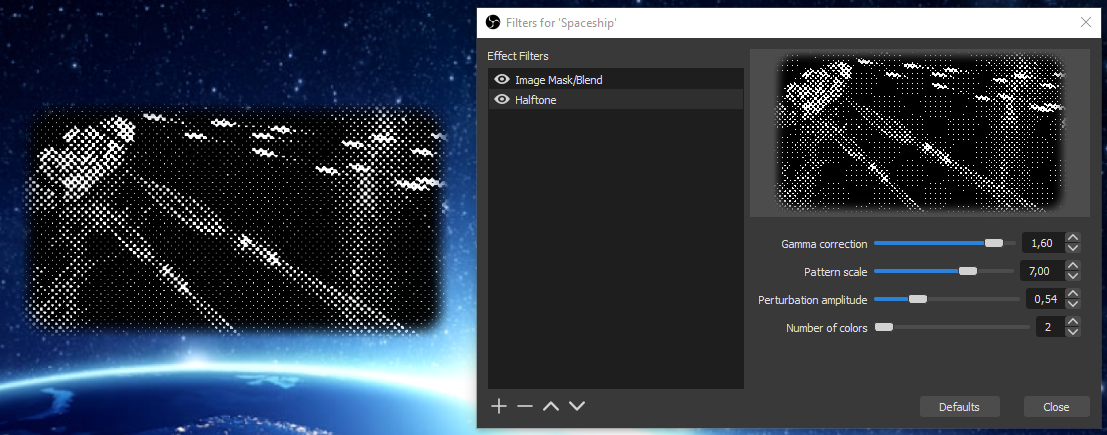
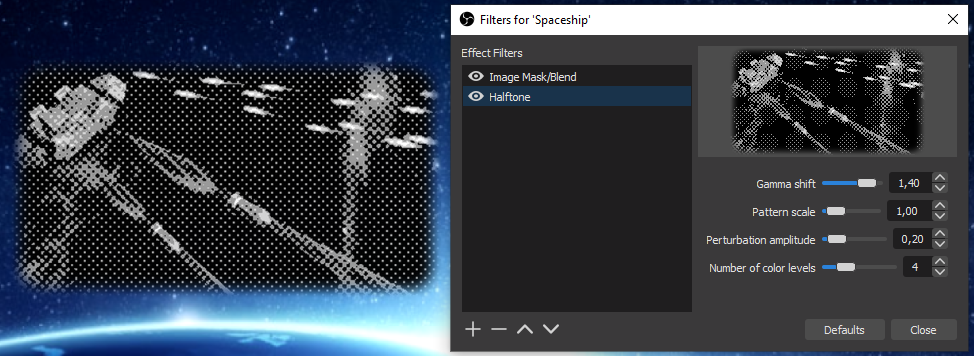
Before changing GAMMA

diff --git a/Scripting-Tutorial-Halftone-Filter.md b/Scripting-Tutorial-Halftone-Filter.md
@@ -269,13 +269,13 @@ Add all the code blocks in the HLSL file, then restart OBS, normally the source 
 
 Well, this is not really a halftone picture here, but it clearly shows the expected shades of gray according to the luminance. The example picture is very dark. And actually our simple computation of the luminance is wrong as it does not take into account the "gamma compression" of RGB components.
 
-### Gamma compression and correction
+### Gamma correction
 
 Colors are typically encoded with 8 bits for each RGB component, i.e. in range 0 to 255, corresponding to the range 0.0 to 1.0 in HLSL. But because the human eye has a [non-linear perception of the light intensity](http://blog.johnnovak.net/2016/09/21/what-every-coder-should-know-about-gamma/) emitted by the monitor, the values encoded in the RGB components do not grow linearly with the intensity, they follow a power law instead. The power law for encoding and decoding uses typically an exponent _2.2_ or _1/2.2_.
 
 This non-linearity of the RGB components is of course an issue in a video filter if a computation is performed assuming they are encoded in a linear way.
 
-The two operations of [gamma correction](https://en.wikipedia.org/wiki/Gamma_correction) are called first _gamma compression_, i.e. encoding of an RGB component proportional to the light intensity into a value to be displayed to a human eye, with an exponent lower than 1, and _gamma expansion_ with an exponent greater than 1.
+The two operations of [gamma correction](https://en.wikipedia.org/wiki/gamma_shift) are called first _gamma compression_, i.e. encoding of an RGB component proportional to the light intensity into a value to be displayed to a human eye, with an exponent lower than 1, and _gamma expansion_ with an exponent greater than 1.
 
 Let's call _gamma_ the exponent used for color decoding (greater than 1) with a value of _2.2_. We can use simplified formulas for gamma encoding:
 
@@ -287,30 +287,30 @@ _linear_value = encoded_value <sup>gamma</sup>_
 
 Please note that such formulas keep values nicely between 0.0 and 1.0.
 
-Now to come back to the halftone filter, we noted that the example picture is a bit too dark, and we know that changing the "gamma" of a picture change its overall luminosity. So we can introduce a gamma computation for 2 purposes: use of linear values for more exact calculations and a somehow abusively named "gamma correction" of the source picture.
+Now to come back to the halftone filter, we noted that the example picture is a bit too dark, and we know that changing the "gamma" of a picture change its overall luminosity. So we can introduce a gamma computation for 2 purposes: use of linear values for more exact calculations and a "gamma shift" of the source picture (not called "gamma correction" to avoid misunderstandings).
 
-Namely, a gamma decoding including a subtractive "correction" would look like this, performed _before_ any computation on the RGB color components (with a minus such that positive values increase the luminosity):
+Namely, a gamma decoding including a subtractive shift would look like this, performed _before_ any computation on the RGB color components (with a minus such that positive values increase the luminosity):
 
-_linear_value = encoded_value <sup>gamma-correction</sup>_
+_linear_value = encoded_value <sup>gamma-shift</sup>_
 
-Let's do it in the code, starting with the definition of a global constant `GAMMA` and a uniform variable `gamma_correction` with a default value:
+Let's do it in the code, starting with the definition of a global constant `GAMMA` and a uniform variable `gamma_shift` with a default value:
 
 ``` HLSL
 // Constants
 #define GAMMA 2.2
 
 // General properties
-uniform float gamma_correction = 1.2;
+uniform float gamma_shift = 1.2;
 ```
 
-Experiment and adapt the default value of `gamma_correction` to your source. It will be defined as an OBS property later on.
+Experiment and adapt the default value of `gamma_shift` to your source. It will be defined as an OBS property later on.
 
 Then we introduce the gamma encoding and decoding functions, and re-write the pixel shader to use it:
 
 ``` HLSL
-float3 decode_gamma(float3 color)
+float3 decode_gamma(float3 color, float shift)
 {
-    return pow(color, GAMMA - gamma_correction);
+    return pow(color, GAMMA - shift);
 }
 
 float3 encode_gamma(float3 color)
@@ -322,7 +322,7 @@ float3 encode_gamma(float3 color)
 float4 pixel_shader_halftone(pixel_data pixel) : TARGET
 {
     float4 source_sample = image.Sample(linear_clamp, pixel.uv);
-    float3 linear_color = decode_gamma(source_sample.rgb);
+    float3 linear_color = decode_gamma(source_sample.rgb, gamma_shift);
 
     float luminance = dot(linear_color, float3(0.299, 0.587, 0.114));
     float3 result = luminance.xxx;
@@ -331,7 +331,7 @@ float4 pixel_shader_halftone(pixel_data pixel) : TARGET
 }
 ```
 
-Add all the code blocks in the HLSL file, then _restart OBS_ (only reloading the script would not help, because the effect remains cached and would not be re-compiled). Depending on the value you select for `gamma_correction`, the filtered picture should have a different overall luminosity:
+Add all the code blocks in the HLSL file, then _restart OBS_ (only reloading the script would not help, because the effect remains cached and would not be re-compiled). Depending on the value you select for `gamma_shift`, the filtered picture should have a different overall luminosity:
 
 ![filter halftone gamma corrected luminance](images/scripting/filter-halftone-gamma-corrected-luminance.png)
 
@@ -370,29 +370,29 @@ Add the code, restart OBS, for now no difference is expected, the interesting th
 
 ### Luminance perturbation
 
-Now that the size of the picture is available, we can start to use pixel coordinates for formulas. Namely, we want to add a little perturbation on the computed luminance according to the formula _sin(x)*sin(y)_. The form of this classic formula looks like:
+Now that the size of the picture is available, we can start to use pixel coordinates for formulas. Namely, we want to add a little perturbation on the computed luminance according to the formula _cos(x)*cos(y)_. The form of this classic formula looks like:
 
 ![filter halftone ](images/scripting/filter-halftone-perturbation-curve.png)
 
 The formula will be such that:
 
 - It adds to the luminance a small negative or positive value with a given amplitude
-- The scale of the form can be changed, with a scale of 1.0 corresponding to an oscillation long of 1 pixel
+- The scale of the form can be changed, with a scale of 1.0 corresponding to a 8 pixels long oscillation
 
-If we name the parameters of the formula simply _scale_ and _amplitude_, assuming _x_ and _y_ are in pixels, the angle for the oscillations on _x_ is given by _2\*&pi;\*x/scale_ (the bigger the _scale_, the longer the oscillations). The sine function returns values between -1.0 and 1.0, so the _amplitude_ can be just multiplied to the product of sine.
+If we name the parameters of the formula simply _scale_ and _amplitude_, assuming _x_ and _y_ are in pixels, the angle for the oscillations on _x_ is given by _2\*&pi;\*x/scale/8_ (the bigger the _scale_, the longer the oscillations). The cosine function returns values between -1.0 and 1.0, so the _amplitude_ can be just multiplied to the product of cosine.
 
-The final parameterized formula will be:
+The final parameterized formula will be (with simplification):
 
-_perturbation = amplitude\*sin(2\*&pi;\*x/scale)\*sin(2\*&pi;\*y/scale)_
+_perturbation = amplitude\*cos(&pi;\*x/scale/4)\*cos(&pi;\*y/scale/4)_
 
-For the coordinates _x_ and _y_ in pixels, as we have the _width_ and _height_ plus the UV coordinates, the formula are simply _x = U * width_ and _y = V * height_ if we call the UV coordinates _U_ and _V_ here.
+For the coordinates _x_ and _y_ in pixels, as we have the _width_ and _height_ plus the UV coordinates, the formula are simply _x = U * width_ and _y = V * height_ if we call the UV coordinates _U_ and _V_ here. In the code, we will use a more compact form with a component-by-component multiplication of `pixel.uv` with `float2(width,height)`.
 
-In the code, we will use a more compact form with a component-by-component multiplication of `pixel.uv` with `float2(width,height)`. Re-write the center part of the pixel shader (between the decoding and encoding lines) with:
+Re-write the center part of the pixel shader (between the decoding and encoding lines) with:
 
 ``` HLSL
     float luminance = dot(linear_color, float3(0.299, 0.587, 0.114));
     float2 position = pixel.uv * float2(width, height);
-    float perturbation = amplitude * sin(2.0*PI*position.x/scale) * sin(2.0*PI*position.y/scale);
+    float perturbation = amplitude * cos(PI*position.x/scale/4.0) * cos(PI*position.y/scale/4.0);
     float3 result = (luminance + perturbation).xxx;
 ```
 
@@ -404,7 +404,7 @@ At the top of the file, do not forget to define a new constant for `PI` and the 
 
 // General properties
 uniform float amplitude = 0.2;
-uniform float scale = 8.0;
+uniform float scale = 1.0;
 ```
 
 Add the code, restart OBS, now the effect should look like this:
@@ -419,23 +419,23 @@ Until now we use a continuous luminance. The next step is to mimic a reduced num
 
 For a given value of luminance from 0.0 to 1.0, we can multiply the value by a constant factor and then round the product to obtain a certain number of integer values. For example, with a factor of 3, we obtain the values 0, 1, 2 and 3. The we re-divide by 3 to obtain 4 luminance values with values 0.0, 0.33, 0.66 and 1.0. It can be generalized to _n_ colors by multiplying/dividing by _n-1_.
 
-The computation is really simple to implement. We start by adding a global uniform number of colors:
+The computation is really simple to implement. We start by adding a global uniform number of color levels:
 
 ``` HLSL
-uniform int number_of_colors = 4.0;
+uniform int number_of_color_levels = 4.0;
 ```
 
 And we add a single line in the pixel shader, just before the gamma encoding:
 
 ``` HLSL
-    result = round((number_of_colors-1)*result)/(number_of_colors-1);
+    result = round((number_of_color_levels-1)*result)/(number_of_color_levels-1);
 ```
 
 Add the code, restart OBS, now the effect should look like this:
 
 ![filter halftone 4 colors](images/scripting/filter-halftone-4-colors.png)
 
-Here we are! It is nice to see what a simple sine-based perturbation plus rounding can do. The active part of the effect is just a couple of lines long.
+Here we are! It is nice to see what a simple cosine-based perturbation plus rounding can do. The active part of the effect is just a couple of lines long.
 
 And now it is also very interesting to check how the effect behaves with different kinds of scale filtering (context menu of the source in OBS, then _Scale Filtering_).
 
@@ -455,7 +455,7 @@ With reduced size, the aliasing is not completely gone but at least reduced:
 
 ![filter halftone unzoom scale filtering bicubic](images/scripting/filter-halftone-unzoom-scale-filtering-bicubic.png)
 
-Now a very interesting effect appears when the scale filtering is set to _Disable_ on a strongly zoomed picture (attention it may not work if other filters are in the chain of the source). The pixel shader works directly on the screen (the output is not rendered into an intermediate texture for later scaling), so it renders every single pixel in the screen space, at a sub-pixel level for the source picture. As we use continuous mathematical functions, and sample the source picture using a `Linear` interpolation with `linear_clamp`,  the curves drawn by the pixel shader hide completely the pixel grid of the source picture. It looks like a vector drawing:
+Now a very interesting effect appears when the scale filtering is set to _Disable_ on a strongly zoomed picture (attention it may not work if other filters are in the chain of the source). The pixel shader renders directly to the screen (the output is not rendered into an intermediate texture for later scaling), so it is called for every single pixel in the screen space, at a sub-pixel level for the source picture. As we use continuous mathematical functions, and sample the source picture using a `Linear` interpolation with `linear_clamp`,  the curves drawn by the pixel shader hide completely the pixel grid of the source picture. It looks like a vector drawing:
 
 ![filter halftone zoom scale filtering disable](images/scripting/filter-halftone-zoom-scale-filtering-disable.png)
 
@@ -463,23 +463,23 @@ With reduced size it still behaves well:
 
 ![filter halftone unzoom scale filtering disable](images/scripting/filter-halftone-unzoom-scale-filtering-disable.png)
 
-The sine-based halftone effect is completely implemented now. It has many parameters set with default values but the user cannot set these parameters so far.
+The cosine-based halftone effect is completely implemented now. It has many parameters set with default values but the user cannot set these parameters so far.
 
 ### Adding properties
 
-The effect is already satisfactory, we now want to improve the user experience by creating properties for the uniform variables that we already have in the effect file: `gamma_correction`, `amplitude`, `scale` and `number_of_colors`.
+The effect is already satisfactory, we now want to improve the user experience by creating properties for the uniform variables that we already have in the effect file: `gamma_shift`, `amplitude`, `scale` and `number_of_color_levels`.
 
 By convention, we will name all instances of the variables or properties with the sames names as in the effect file, i.e. for the effect parameters, the data settings and the variables of the `data` structure.
 
-Similarly to what is described in the Source Shake tutorial, we first have to define default values in [`source_info.get_defaults`](https://obsproject.com/docs/reference-sources.html#c.obs_source_info.get_defaults). Default values are chosen such that applying them to a new source would give a reasonable result (no extreme values, no pre-defined corrections):
+Similarly to what is described in the Source Shake tutorial, we first have to define default values in [`source_info.get_defaults`](https://obsproject.com/docs/reference-sources.html#c.obs_source_info.get_defaults). Default values are chosen such that applying them to a new source would give a reasonable result:
 
 ``` Lua
 -- Sets the default settings for this source
 source_info.get_defaults = function(settings)
-  obs.obs_data_set_default_double(settings, "gamma_correction", 0.0)
-  obs.obs_data_set_default_double(settings, "scale", 5.0)
+  obs.obs_data_set_default_double(settings, "gamma_shift", 0.0)
+  obs.obs_data_set_default_double(settings, "scale", 1.0)
   obs.obs_data_set_default_double(settings, "amplitude", 0.2)
-  obs.obs_data_set_default_int(settings, "number_of_colors", 4)
+  obs.obs_data_set_default_int(settings, "number_of_color_levels", 4)
 end
 ```
 
@@ -489,10 +489,10 @@ Then we define the properties as sliders in [`source_info.get_properties`](https
 -- Gets the property information of this source
 source_info.get_properties = function(data)
   local props = obs.obs_properties_create()
-  obs.obs_properties_add_float_slider(props, "gamma_correction", "Gamma correction", -2.0, 2.0, 0.1)
+  obs.obs_properties_add_float_slider(props, "gamma_shift", "Gamma shift", -2.0, 2.0, 0.01)
   obs.obs_properties_add_float_slider(props, "scale", "Pattern scale", 0.01, 10.0, 0.01)
   obs.obs_properties_add_float_slider(props, "amplitude", "Perturbation amplitude", 0.0, 2.0, 0.01)
-  obs.obs_properties_add_int_slider(props, "number_of_colors", "Number of colors", 2, 10, 1)
+  obs.obs_properties_add_int_slider(props, "number_of_color_levels", "Number of color levels", 2, 10, 1)
   return props
 end
 ```
@@ -502,20 +502,20 @@ Once a property is changed, the [`source_info.update`](https://obsproject.com/do
 ``` Lua
 -- Updates the internal data for this source upon settings change
 source_info.update = function(data, settings)
-  data.gamma_correction = obs.obs_data_get_double(settings, "gamma_correction")
+  data.gamma_shift = obs.obs_data_get_double(settings, "gamma_shift")
   data.scale = obs.obs_data_get_double(settings, "scale")
   data.amplitude = obs.obs_data_get_double(settings, "amplitude")
-  data.number_of_colors = obs.obs_data_get_int(settings, "number_of_colors")
+  data.number_of_color_levels = obs.obs_data_get_int(settings, "number_of_color_levels")
 end
 ```
 
 Next, like for `width` and `height`, we need to store the effect parameters and we call once `source_info.update` to initialize the members of the `data` structure (do not forget it, otherwise OBS will try to use non-initialized data in `source_info.video_render` and log errors every frame). This block comes at the end of the `source_info.create` function, after effect compilation:
 
 ``` Lua
-  data.params.gamma_correction = obs.gs_effect_get_param_by_name(data.effect, "gamma_correction")
+  data.params.gamma_shift = obs.gs_effect_get_param_by_name(data.effect, "gamma_shift")
   data.params.amplitude = obs.gs_effect_get_param_by_name(data.effect, "amplitude")
   data.params.scale = obs.gs_effect_get_param_by_name(data.effect, "scale")
-  data.params.number_of_colors = obs.gs_effect_get_param_by_name(data.effect, "number_of_colors")
+  data.params.number_of_color_levels = obs.gs_effect_get_param_by_name(data.effect, "number_of_color_levels")
 
   -- Calls update to initialize the rest of the properties-managed settings
   source_info.update(data, settings)
@@ -524,25 +524,31 @@ Next, like for `width` and `height`, we need to store the effect parameters and 
 And finally we transfer the values from the `data` structure into the effect parameters in `source_info.video_render`:
 
 ``` Lua
-  obs.gs_effect_set_float(data.params.gamma_correction, data.gamma_correction)
+  obs.gs_effect_set_float(data.params.gamma_shift, data.gamma_shift)
   obs.gs_effect_set_float(data.params.amplitude, data.amplitude)
   obs.gs_effect_set_float(data.params.scale, data.scale)
-  obs.gs_effect_set_int(data.params.number_of_colors, data.number_of_colors)
+  obs.gs_effect_set_int(data.params.number_of_color_levels, data.number_of_color_levels)
 ```
 
-Well, that's a lot. Each variable appears 7 times in different forms! Every line above has a justification, and this is the way OBS manages the persistency of settings, default values, display of properties, etc, and that for any filter instance added to any source. Let's say it is worth the pain but it calls for a proper object-oriented design to avoid writing so many times the same of code.
+Well, that's a lot. Each variable appears 7 times in different forms! Every line above has a justification, and this is the way OBS manages the persistency of settings, default values, display of properties, etc, and that for any filter instance added to any source. Let's say it is worth the pain but it calls for a proper object-oriented design to avoid writing so many times the same lines of code.
 
 Add the pieces of code, restart OBS, open the _Filters_ of the source, it should look like this (here in 2 colors):
 
 ![filter halftone properties](images/scripting/filter-halftone-properties.png)
 
-Playing with the parameters of a video filter and seeing the result immediately is quite satisfying.Note the aliasing effects in the preview, it seems that there is nothing foreseen to avoid it.
+Playing with the parameters of a video filter and seeing the result immediately is quite satisfying. Note the aliasing effects on the preview in the _Filters_ window (unclear if it is possible to change the filtering there).
 
-This first part is completed. This version is definitely a good starting point for further development. The complete [source code of this first part](Scripting-Tutorial-Halftone-Filter-Listing.md) is available.
+The old-fashioned newspaper effect  is very convincing with 2 colors:
+
+![filter halftone sparrow](images/scripting/filter-halftone-sparrow.png)
+
+Some edges are preserved on the picture, and actually the form of the cosine function is heavily disturbed by the underlying picture. This is normal because we just add a pixel-by-pixel perturbation here. Other formulas, or just using _x_ and _y_ coordinates that follow the pattern grid, would produce different results.
+
+The first part of the tutorial is completed and the script plus its effect file are definitely a good starting point for further development. The complete [source code of this first part](Scripting-Tutorial-Halftone-Filter-Listing.md) is available.
 
 ## Second part - Dithering with texture
 
-In this second part we will see how to use additional textures.
+In this second part we will see how to use additional textures for the pattern and the color palette.
 
 
 

diff --git a/Scripting-Tutorial-Halftone-Filter-Listing.md b/Scripting-Tutorial-Halftone-Filter-Listing.md
@@ -65,10 +65,10 @@ source_info.create = function(settings, source)
   data.params.width = obs.gs_effect_get_param_by_name(data.effect, "width")
   data.params.height = obs.gs_effect_get_param_by_name(data.effect, "height")
 
-  data.params.gamma_correction = obs.gs_effect_get_param_by_name(data.effect, "gamma_correction")
+  data.params.gamma_shift = obs.gs_effect_get_param_by_name(data.effect, "gamma_shift")
   data.params.amplitude = obs.gs_effect_get_param_by_name(data.effect, "amplitude")
   data.params.scale = obs.gs_effect_get_param_by_name(data.effect, "scale")
-  data.params.number_of_colors = obs.gs_effect_get_param_by_name(data.effect, "number_of_colors")
+  data.params.number_of_color_levels = obs.gs_effect_get_param_by_name(data.effect, "number_of_color_levels")
 
   -- Calls update to initialize the rest of the properties-managed settings
   source_info.update(data, settings)
@@ -109,38 +109,38 @@ source_info.video_render = function(data)
   obs.gs_effect_set_int(data.params.width, data.width)
   obs.gs_effect_set_int(data.params.height, data.height)
 
-  obs.gs_effect_set_float(data.params.gamma_correction, data.gamma_correction)
+  obs.gs_effect_set_float(data.params.gamma_shift, data.gamma_shift)
   obs.gs_effect_set_float(data.params.amplitude, data.amplitude)
   obs.gs_effect_set_float(data.params.scale, data.scale)
-  obs.gs_effect_set_int(data.params.number_of_colors, data.number_of_colors)
+  obs.gs_effect_set_int(data.params.number_of_color_levels, data.number_of_color_levels)
 
   obs.obs_source_process_filter_end(data.source, data.effect, data.width, data.height)
 end
 
 -- Sets the default settings for this source
 source_info.get_defaults = function(settings)
-  obs.obs_data_set_default_double(settings, "gamma_correction", 0.0)
-  obs.obs_data_set_default_double(settings, "scale", 5.0)
+  obs.obs_data_set_default_double(settings, "gamma_shift", 0.0)
+  obs.obs_data_set_default_double(settings, "scale", 1.0)
   obs.obs_data_set_default_double(settings, "amplitude", 0.2)
-  obs.obs_data_set_default_int(settings, "number_of_colors", 4)
+  obs.obs_data_set_default_int(settings, "number_of_color_levels", 4)
 end
 
 -- Gets the property information of this source
 source_info.get_properties = function(data)
   local props = obs.obs_properties_create()
-  obs.obs_properties_add_float_slider(props, "gamma_correction", "Gamma correction", -2.0, 2.0, 0.1)
+  obs.obs_properties_add_float_slider(props, "gamma_shift", "Gamma shift", -2.0, 2.0, 0.01)
   obs.obs_properties_add_float_slider(props, "scale", "Pattern scale", 0.01, 10.0, 0.01)
   obs.obs_properties_add_float_slider(props, "amplitude", "Perturbation amplitude", 0.0, 2.0, 0.01)
-  obs.obs_properties_add_int_slider(props, "number_of_colors", "Number of colors", 2, 10, 1)
+  obs.obs_properties_add_int_slider(props, "number_of_color_levels", "Number of colors", 2, 10, 1)
   return props
 end
 
 -- Updates the internal data for this source upon settings change
 source_info.update = function(data, settings)
-  data.gamma_correction = obs.obs_data_get_double(settings, "gamma_correction")
+  data.gamma_shift = obs.obs_data_get_double(settings, "gamma_shift")
   data.scale = obs.obs_data_get_double(settings, "scale")
   data.amplitude = obs.obs_data_get_double(settings, "amplitude")
-  data.number_of_colors = obs.obs_data_get_int(settings, "number_of_colors")
+  data.number_of_color_levels = obs.obs_data_get_int(settings, "number_of_color_levels")
 end
 ```
 
@@ -164,10 +164,10 @@ uniform int width;
 uniform int height;
 
 // General properties
-uniform float gamma_correction = 1.2;
+uniform float gamma_shift = 1.2;
 uniform float amplitude = 0.2;
-uniform float scale = 8.0;
-uniform int number_of_colors = 4.0;
+uniform float scale = 1.0;
+uniform int number_of_color_levels = 4.0;
 
 // Interpolation method and wrap mode for sampling a texture
 SamplerState linear_clamp
@@ -202,9 +202,9 @@ pixel_data vertex_shader_halftone(vertex_data vertex)
     return pixel;
 }
 
-float3 decode_gamma(float3 color)
+float3 decode_gamma(float3 color, float shift)
 {
-    return pow(color, GAMMA - gamma_correction);
+    return pow(color, GAMMA - shift);
 }
 
 float3 encode_gamma(float3 color)
@@ -216,14 +216,14 @@ float3 encode_gamma(float3 color)
 float4 pixel_shader_halftone(pixel_data pixel) : TARGET
 {
     float4 source_sample = image.Sample(linear_clamp, pixel.uv);
-    float3 linear_color = decode_gamma(source_sample.rgb);
+    float3 linear_color = decode_gamma(source_sample.rgb, gamma_shift);
 
     float luminance = dot(linear_color, float3(0.299, 0.587, 0.114));
     float2 position = pixel.uv * float2(width, height);
-    float perturbation = amplitude * sin(2.0*PI*position.x/scale) * sin(2.0*PI*position.y/scale);
+    float perturbation = amplitude * cos(PI*position.x/scale/4.0) * cos(PI*position.y/scale/4.0);
     float3 result = (luminance + perturbation).xxx;
 
-    result = round((number_of_colors-1)*result)/(number_of_colors-1);
+    result = round((number_of_color_levels-1)*result)/(number_of_color_levels-1);
 
     return float4(encode_gamma(result), source_sample.a);
 }
